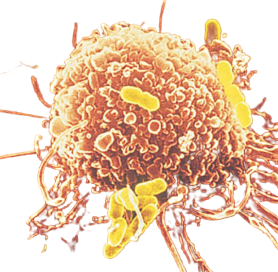
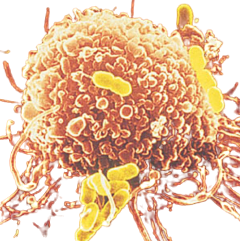
吞噬细胞升级

diff --git a/mainwindow.cpp b/mainwindow.cpp
@@ -12,6 +12,7 @@
 #include "plistreader.h"
 #include "tlymcell.h"
 #include "towertunshi.h"
+#include "tunshiplus.h"
 #include "towerrangeall.h"
 #include <QPainter>
 #include <QMouseEvent>
@@ -139,7 +140,7 @@ void MainWindow::paintEvent(QPaintEvent *)
     m_cell.load(":/image/phagocyte.png");
     painter.drawPixmap(970,280,80,80,m_cell);
     painter.setPen(Qt::black);
-    painter.drawText(QRect(1050,280,170,80),QString("吞噬细胞,吞噬进入范围的病毒，吞噬3个之后自动死亡，攻击HIV时不被其杀死"));
+    painter.drawText(QRect(1050,280,170,80),QString("吞噬细胞,吞噬进入范围的病毒，吞噬2个之后自动死亡，攻击HIV时不被其杀死"));
 
 
     painter.setBrush(QColor("#cd853f"));
@@ -205,8 +206,8 @@ void MainWindow::mousePressEvent(QMouseEvent *event)
             break;
         }
         else if(canBuyTower() && it->containPoint(pressPoint) && !it->hasTower()&&event->button()==Qt::LeftButton&&remember_tower_kind==3)
+            //                         吞噬细胞
         {
-            //m_playrGold-=TowerCost;
             Tower *tower=new TowerTunshi(it->centerPos(),this);
             it->setHasTower(tower);
             _towersList.push_back(tower);
@@ -215,6 +216,23 @@ void MainWindow::mousePressEvent(QMouseEvent *event)
             remember_tower_kind=0;
             break;
         }
+        //吞噬细胞升级：先拆后建
+        else if(canBuyTower() && it->containPoint(pressPoint) && it->hasTower()&&event->button()==Qt::LeftButton&&it->the_tower_in->get_tower_type_num()==3)
+            //                         它是吞噬细胞
+        {
+            removedTower(it->the_tower_in);
+            it->the_tower_in=NULL;
+            it->setNotHasTower();
+            //m_playrGold-=TowerCost;
+            Tower *tower=new TunshiPlus(it->centerPos(),this);
+            it->setHasTower(tower);
+            _towersList.push_back(tower);
+            mymoney-=tower->get_tower_cost();
+            update();
+            remember_tower_kind=0;
+            break;
+        }
+
 
         ++it;
 

diff --git a/enemy.cpp b/enemy.cpp
@@ -13,7 +13,7 @@
 
 static const int Health_Bar_Width = 20;
 
-const QSize Enemy::ms_fixedSize(80,80);
+const QSize Enemy::ms_fixedSize(50,50);
 
 Enemy::Enemy(WayPoint *startWayPoint, MainWindow *game, const QPixmap &sprite/* = QPixmap(":/image/enemy.png")*/)
 	: QObject(0)
@@ -76,7 +76,7 @@ void Enemy::draw(QPainter *painter) const
 	static const QPoint offsetPoint(-ms_fixedSize.width() / 2, -ms_fixedSize.height() / 2);
     painter->translate(m_pos);
 
-    painter->drawPixmap(offsetPoint.x(),offsetPoint.y(),80,80, m_sprite);//enemy
+    painter->drawPixmap(offsetPoint.x(),offsetPoint.y(),50,50, m_sprite);//enemy
     painter->setBrush(QColor("#99ffffff"));
     painter->setPen(Qt::NoPen);
     painter->drawRect(offsetPoint.x(),offsetPoint.y(),60,20);//text background

diff --git a/tower.cpp b/tower.cpp
@@ -9,7 +9,7 @@
 #include <QVector2D>
 #include <QtMath>
 
-const QSize Tower::sizeofTower(80, 80);
+const QSize Tower::sizeofTower(100,100);
 
 Tower::Tower(QPoint pos, MainWindow *game, const QPixmap &sprite/* = QPixmap(":/image/tower.png"*/)
     : if_on_fire(false)
@@ -78,7 +78,7 @@ void Tower::draw(QPainter *painter) const
     painter->save();
     painter->setPen(Qt::yellow);
     painter->drawEllipse(tower_position, range_of_fire, range_of_fire);
-    painter->drawPixmap(tower_position.x()-sizeofTower.width()/2,tower_position.y()-sizeofTower.height()/2,80,80,tower_picture);
+    painter->drawPixmap(tower_position.x()-sizeofTower.width()/2,tower_position.y()-sizeofTower.height()/2,100,100,tower_picture);
     painter->restore();
 
 }

diff --git a/tunshiplus.cpp b/tunshiplus.cpp
@@ -1,0 +1,21 @@
+#include "tunshiplus.h"
+#include <QPainter>
+
+TunshiPlus::TunshiPlus(QPoint pos, MainWindow *game, const QPixmap &sprite)
+    :TowerTunshi(pos,game,sprite)
+{
+    set_tower_type_num(4);
+    set_per_damage(200);
+    set_rate_of_attacking(120);
+    set_range_of_fire(110);
+    set_num_can_eat(5);
+}
+void TunshiPlus::draw(QPainter *painter) const
+{
+    painter->save();
+    painter->setPen(Qt::NoPen);
+    painter->setBrush(QColor("#77dc143c"));
+    painter->drawEllipse(tower_position, range_of_fire, range_of_fire);
+    painter->drawPixmap(tower_position.x()-sizeofTower.width()/2,tower_position.y()-sizeofTower.height()/2,100,100,tower_picture);
+    painter->restore();
+}

diff --git a/towertunshi.cpp b/towertunshi.cpp
@@ -50,8 +50,8 @@ void TowerTunshi::draw(QPainter *painter) const
 {
     painter->save();
     painter->setPen(Qt::NoPen);
-    painter->setBrush(QColor("#77dc143c"));
+    painter->setBrush(QColor("#44dc143c"));
     painter->drawEllipse(tower_position, range_of_fire, range_of_fire);
-    painter->drawPixmap(tower_position.x()-sizeofTower.width()/2,tower_position.y()-sizeofTower.height()/2,80,80,tower_picture);
+    painter->drawPixmap(tower_position.x()-sizeofTower.width()/2,tower_position.y()-sizeofTower.height()/2,100,100,tower_picture);
     painter->restore();
 }

diff --git a/tunshiplus.h b/tunshiplus.h
@@ -1,0 +1,12 @@
+#ifndef TUNSHIPLUS_H
+#define TUNSHIPLUS_H
+#include "towertunshi.h"
+
+class TunshiPlus:public TowerTunshi
+{
+public:
+    TunshiPlus(QPoint pos, MainWindow *game, const QPixmap &sprite = QPixmap(":/image/phagocyteplus.png"));
+    void draw(QPainter *painter) const;
+};
+
+#endif // TUNSHIPLUS_H

diff --git a/towertunshi.h b/towertunshi.h
@@ -13,7 +13,7 @@ public:
 public slots:
     void shot();
 protected:
-    int can_eat=3;
+    int can_eat=2;
 };
 
 #endif // TOWERTUNSHI_H
